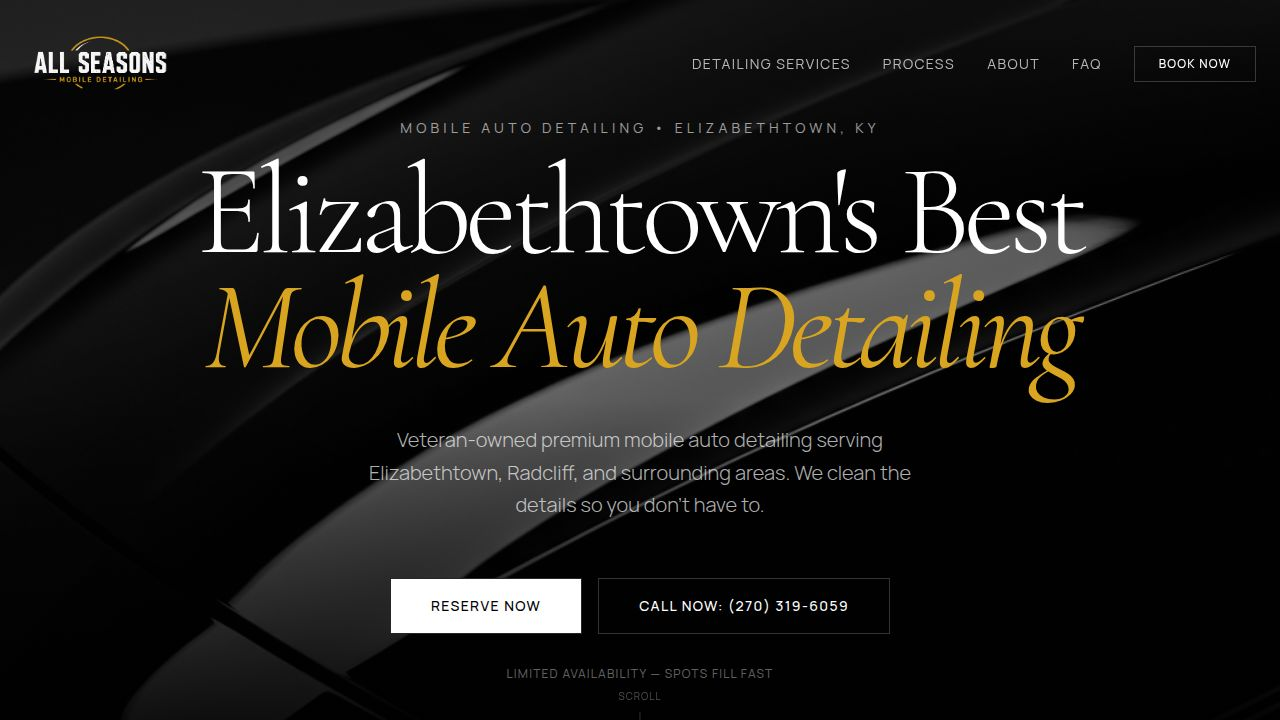
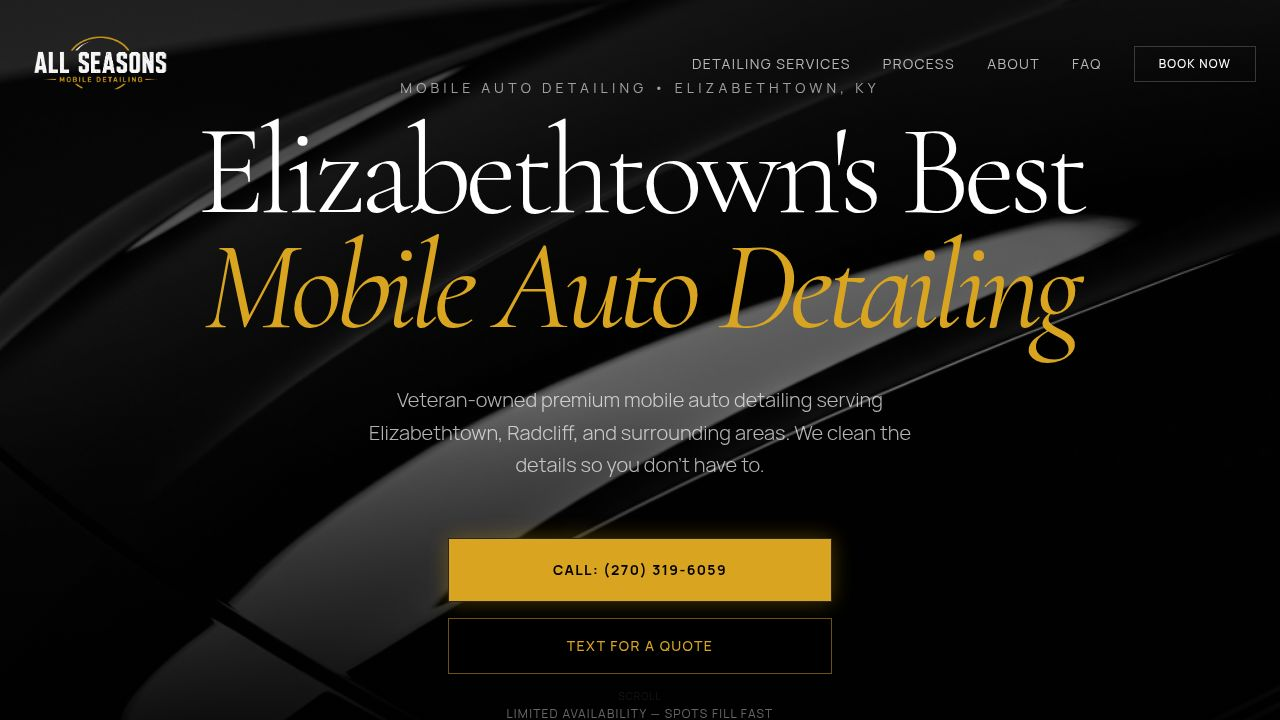
Make the homepage call to action buttons more prominent
Updates the Hero section to display prominent Call and Text buttons with direct contact information and updates build assets.

Replit-Commit-Author: Agent
Replit-Commit-Session-Id: 327b27a0-87eb-4c46-8a59-8546ddc1ecc0
Replit-Commit-Checkpoint-Type: full_checkpoint
Replit-Commit-Event-Id: 0eb9adf0-f0cc-4193-9117-fce3872c9db3
Replit-Commit-Screenshot-Url: https://storage.googleapis.com/screenshot-production-us-central1/a6ffef6e-06a0-4bb6-8dd4-7a708e0f775e/327b27a0-87eb-4c46-8a59-8546ddc1ecc0/z6kl9t0
Replit-Helium-Checkpoint-Created: true

diff --git a/client/src/components/sections/Hero.tsx b/client/src/components/sections/Hero.tsx
@@ -39,21 +39,22 @@ export function Hero() {
             Veteran-owned premium mobile auto detailing serving Elizabethtown, Radcliff, and surrounding areas. We clean the details so you don't have to.
           </p>
 
-          <div className="pt-8 flex flex-col md:flex-row items-center justify-center gap-4">
-            <Link href="/book-an-appointment">
+          <div className="pt-8 flex flex-col items-center justify-center gap-4 w-full max-w-sm mx-auto">
+            <a href="tel:2703196059" className="w-full">
               <Button 
-                className="bg-white text-black hover:bg-white/90 rounded-none h-14 px-10 text-sm uppercase tracking-widest font-medium transition-all w-full md:w-auto"
+                className="bg-primary text-black hover:bg-primary/90 rounded-none h-16 w-full text-sm uppercase tracking-widest font-bold transition-all shadow-[0_0_20px_rgba(234,179,8,0.3)]"
               >
-                Reserve Now
+                Call: (270) 319-6059
               </Button>
-            </Link>
-            <Button 
-              variant="outline"
-              onClick={() => window.location.href = "tel:270-319-6059"}
-              className="border-white/20 text-white hover:bg-white hover:text-black rounded-none h-14 px-10 text-sm uppercase tracking-widest font-medium transition-all w-full md:w-auto"
-            >
-              Call Now: (270) 319-6059
-            </Button>
+            </a>
+            <a href="sms:2703196059" className="w-full">
+              <Button 
+                variant="outline"
+                className="border-primary/50 text-primary bg-black/40 backdrop-blur-sm hover:bg-primary hover:text-black rounded-none h-14 w-full text-sm uppercase tracking-widest font-medium transition-all"
+              >
+                Text for a Quote
+              </Button>
+            </a>
           </div>
           
           <p className="text-white/40 text-xs uppercase tracking-widest mt-8">